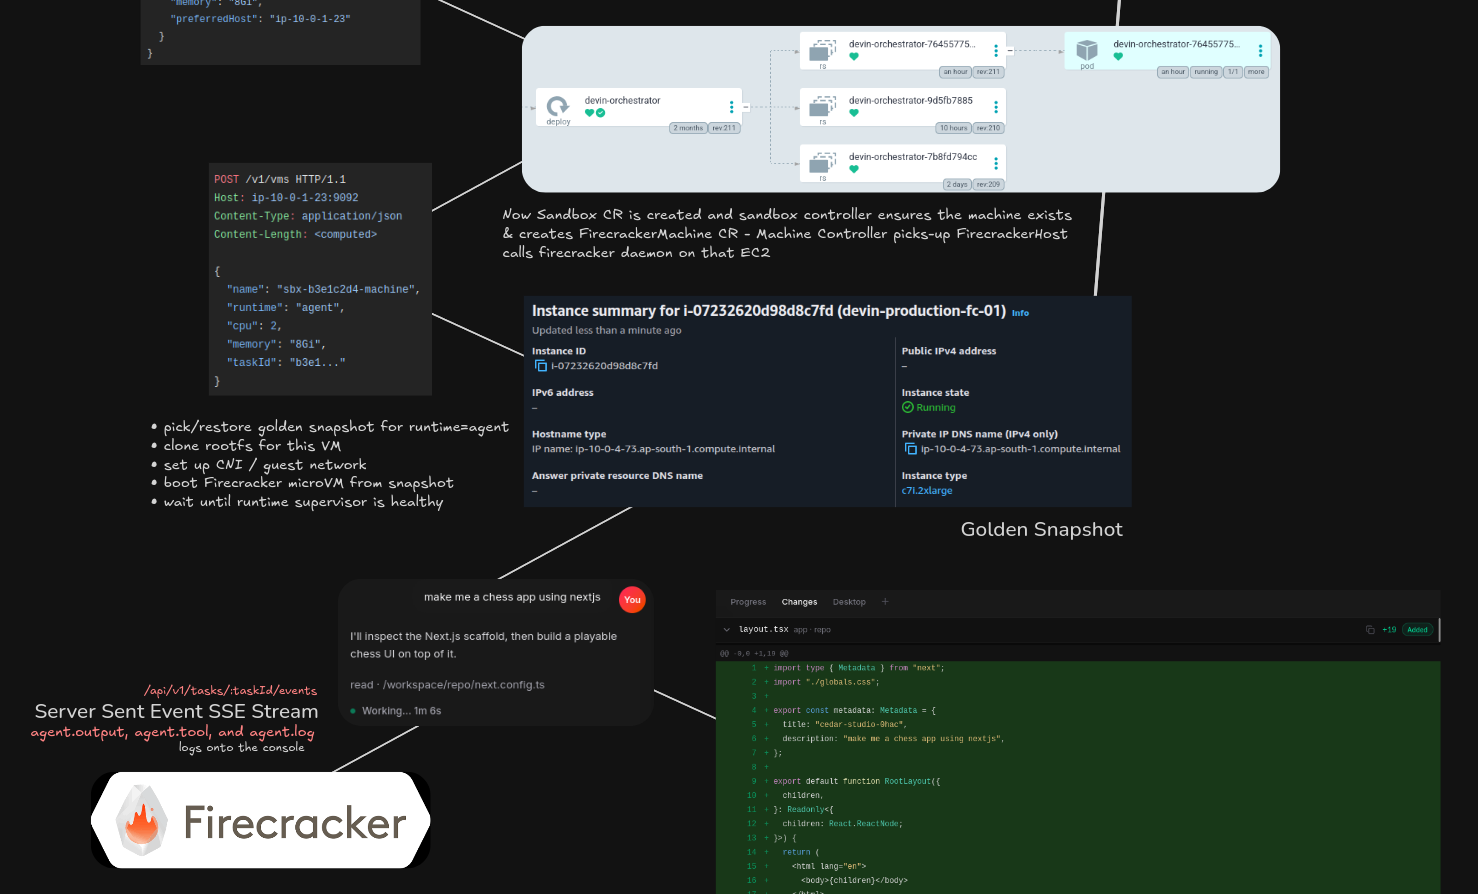
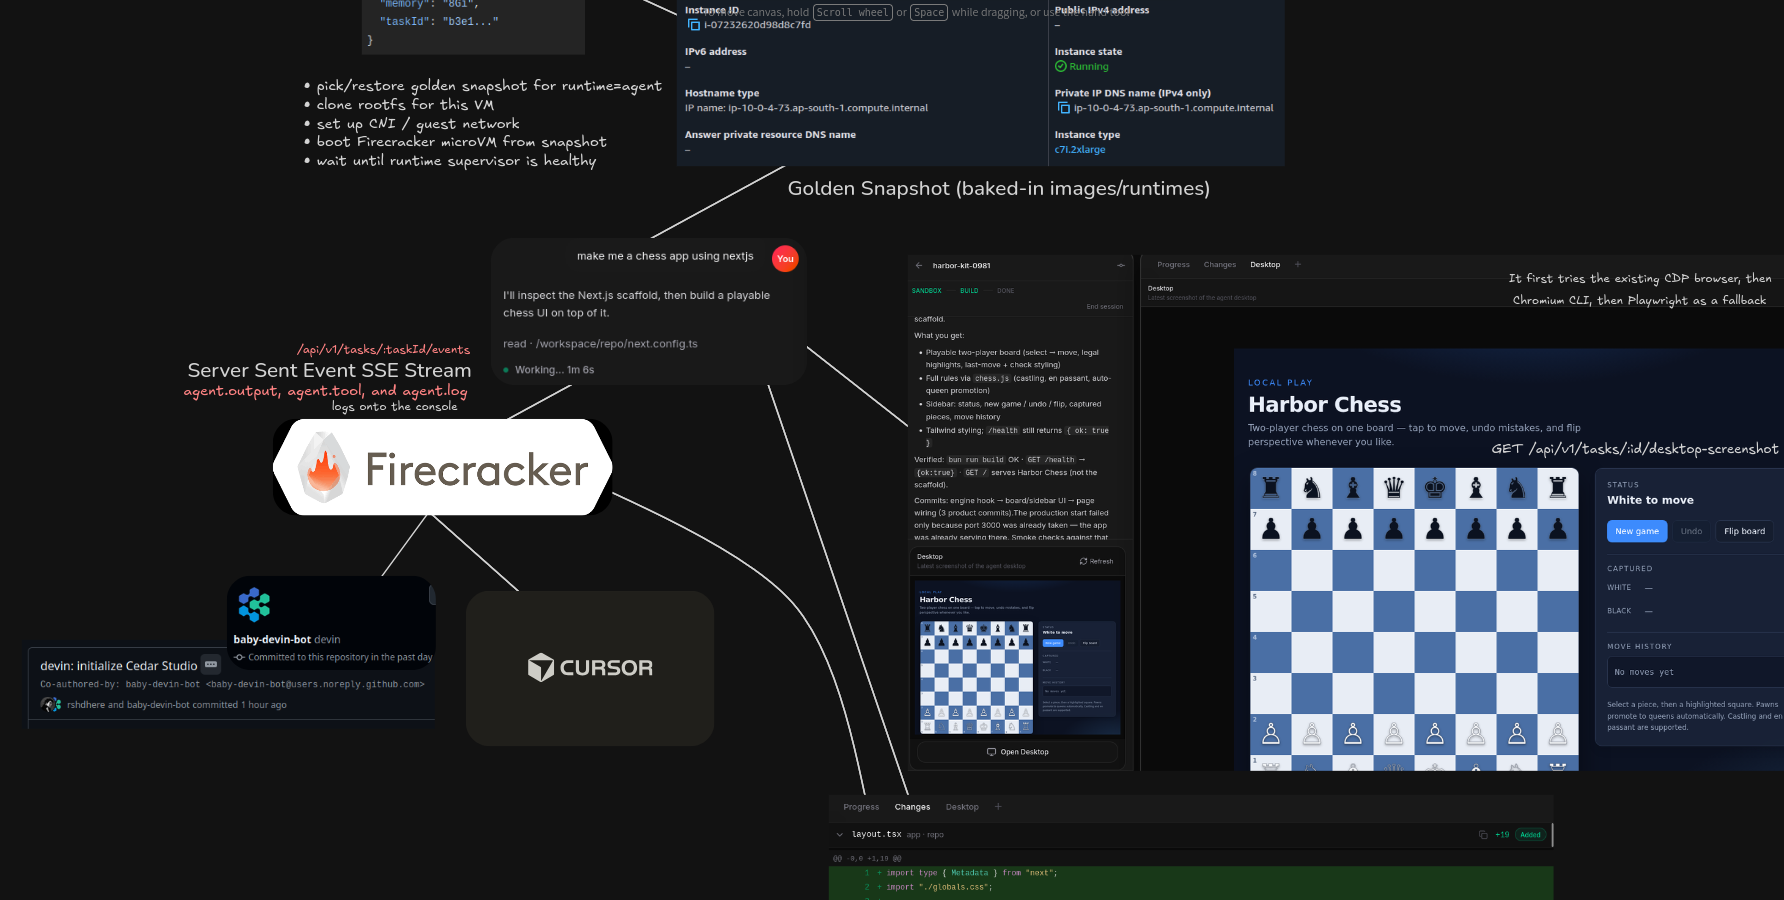
fix(desktop): serve interactive VNC assets with correct MIME
- Rewrite noVNC HTML at the proxy edge to absolute asset and ws paths
- Add compat /tasks/:id/assets/* route for older relative imports
- Force javascript Content-Type for rfb.js through API and scheduler
- Update README architecture diagram

diff --git a/packages/api/v1/src/handlers/tasks.ts b/packages/api/v1/src/handlers/tasks.ts
@@ -28,6 +28,7 @@ import {
   readTaskFile,
 } from "../lib/scheduler.js";
 import { applyCorsHeaders } from "../lib/cors.js";
+import { rewriteDesktopVncPageHtml } from "../lib/desktop-vnc-html.js";
 import { requireAuth } from "../middleware/require-auth.js";
 
 export const tasksRouter = Router();
@@ -349,9 +350,19 @@ tasksRouter.get("/:id/desktop-vnc", async (req, res) => {
     const response = await fetchDesktopVNC(req.params.id);
     res.status(response.status);
     response.headers.forEach((value, key) => {
+      const lower = key.toLowerCase();
+      if (lower === "content-length" || lower === "content-encoding") {
+        return;
+      }
       res.setHeader(key, value);
     });
-    res.send(Buffer.from(await response.arrayBuffer()));
+    res.setHeader("Content-Type", "text/html; charset=utf-8");
+    res.setHeader("Cache-Control", "no-store");
+    let body = Buffer.from(await response.arrayBuffer()).toString("utf8");
+    if (response.ok) {
+      body = rewriteDesktopVncPageHtml(body, req.params.id);
+    }
+    res.send(body);
   } catch (error) {
     respondSchedulerFailure(req, res, error);
   }
@@ -364,7 +375,40 @@ tasksRouter.get("/:id/desktop-vnc/assets/*assetPath", async (req, res) => {
       : req.params.assetPath;
     const response = await fetchDesktopVNCAsset(req.params.id, assetPath);
     res.status(response.status);
-    response.headers.forEach((value, key) => res.setHeader(key, value));
+    response.headers.forEach((value, key) => {
+      const lower = key.toLowerCase();
+      if (lower === "content-length" || lower === "content-encoding") {
+        return;
+      }
+      res.setHeader(key, value);
+    });
+    if (/\.(m?js)$/i.test(assetPath)) {
+      res.setHeader("Content-Type", "text/javascript; charset=utf-8");
+    }
+    res.send(Buffer.from(await response.arrayBuffer()));
+  } catch (error) {
+    respondSchedulerFailure(req, res, error);
+  }
+});
+
+// Compat: older noVNC HTML resolves assets relative to .../tasks/:id/assets/...
+tasksRouter.get("/:id/assets/*assetPath", async (req, res) => {
+  try {
+    const assetPath = Array.isArray(req.params.assetPath)
+      ? req.params.assetPath.join("/")
+      : req.params.assetPath;
+    const response = await fetchDesktopVNCAsset(req.params.id, assetPath);
+    res.status(response.status);
+    response.headers.forEach((value, key) => {
+      const lower = key.toLowerCase();
+      if (lower === "content-length" || lower === "content-encoding") {
+        return;
+      }
+      res.setHeader(key, value);
+    });
+    if (/\.(m?js)$/i.test(assetPath)) {
+      res.setHeader("Content-Type", "text/javascript; charset=utf-8");
+    }
     res.send(Buffer.from(await response.arrayBuffer()));
   } catch (error) {
     respondSchedulerFailure(req, res, error);

diff --git a/packages/scheduler/src/task/service/desktop-vnc-html.ts b/packages/scheduler/src/task/service/desktop-vnc-html.ts
@@ -1,0 +1,51 @@
+/**
+ * noVNC HTML is generated inside the guest runtime. Older snapshots still emit
+ * relative imports that resolve `.../desktop-vnc` → `.../assets/core/rfb.js`
+ * (dropping `desktop-vnc`), which the API serves as HTML and the browser
+ * blocks as a bad MIME type. Rewrite the page at the proxy edge so Interactive
+ * Desktop works even before guest images are rebuilt.
+ */
+export function rewriteDesktopVncHtml(html: string, taskId: string): string {
+  const desktopPath = `/api/v1/tasks/${encodeURIComponent(taskId)}/desktop-vnc`;
+  const assetModule = `${desktopPath}/assets/core/rfb.js`;
+  const wsPath = `${desktopPath}/ws`;
+
+  const script = `<script type="module">
+const proto = location.protocol === 'https:' ? 'wss:' : 'ws:';
+const url = proto + '//' + location.host + ${JSON.stringify(wsPath)};
+import(${JSON.stringify(assetModule)}).then(({ default: RFB }) => {
+  const rfb = new RFB(document.getElementById('screen'), url, { scaleViewport: true, resizeSession: false });
+  rfb.viewOnly = false;
+  rfb.focusOnClick = true;
+  rfb.clipViewport = false;
+  rfb.scaleViewport = true;
+}).catch((err) => {
+  document.body.innerHTML = '<pre style="color:#f88;padding:16px;font:12px monospace">Failed to load noVNC: ' + String(err) + '</pre>';
+});
+</script>`;
+
+  if (/<script type="module">[\s\S]*?<\/script>/i.test(html)) {
+    return html.replace(/<script type="module">[\s\S]*?<\/script>/i, script);
+  }
+  if (/<\/body>/i.test(html)) {
+    return html.replace(/<\/body>/i, `${script}</body>`);
+  }
+  return `${html}\n${script}`;
+}
+
+export function contentTypeForVncAsset(assetPath: string): string | undefined {
+  const lower = assetPath.toLowerCase();
+  if (lower.endsWith(".js") || lower.endsWith(".mjs")) {
+    return "text/javascript; charset=utf-8";
+  }
+  if (lower.endsWith(".css")) {
+    return "text/css; charset=utf-8";
+  }
+  if (lower.endsWith(".svg")) {
+    return "image/svg+xml";
+  }
+  if (lower.endsWith(".map")) {
+    return "application/json";
+  }
+  return undefined;
+}

diff --git a/packages/scheduler/src/task/service/desktop-computer.ts b/packages/scheduler/src/task/service/desktop-computer.ts
@@ -7,6 +7,10 @@ import {
   requestWorkerRehydrate,
 } from "./resolve-session-proxy.js";
 import { wakeSession } from "./session-lifecycle.js";
+import {
+  contentTypeForVncAsset,
+  rewriteDesktopVncHtml,
+} from "./desktop-vnc-html.js";
 
 function bridgeWebSockets(client: WebSocket, upstream: WebSocket): void {
   client.on("message", (data, isBinary) => {
@@ -175,10 +179,41 @@ export async function proxyDesktopVNCPageHttp(
   const upstream = await proxyDesktopVNCPage(svc, taskId);
   res.statusCode = upstream.status;
   upstream.headers.forEach((value, key) => {
+    const lower = key.toLowerCase();
+    if (lower === "content-length" || lower === "content-encoding") {
+      return;
+    }
     res.setHeader(key, value);
   });
-  const body = Buffer.from(await upstream.arrayBuffer());
+  res.setHeader("Content-Type", "text/html; charset=utf-8");
+  res.setHeader("Cache-Control", "no-store");
+  let body = Buffer.from(await upstream.arrayBuffer()).toString("utf8");
+  if (upstream.ok) {
+    body = rewriteDesktopVncHtml(body, taskId);
+  }
   res.end(body);
+}
+
+export async function proxyDesktopVNCAssetHttp(
+  svc: TaskService,
+  taskId: string,
+  assetPath: string,
+  res: ServerResponse,
+): Promise<void> {
+  const upstream = await proxyDesktopVNCAsset(svc, taskId, assetPath);
+  res.statusCode = upstream.status;
+  upstream.headers.forEach((value, key) => {
+    const lower = key.toLowerCase();
+    if (lower === "content-length" || lower === "content-encoding") {
+      return;
+    }
+    res.setHeader(key, value);
+  });
+  const forcedType = contentTypeForVncAsset(assetPath);
+  if (forcedType) {
+    res.setHeader("Content-Type", forcedType);
+  }
+  res.end(Buffer.from(await upstream.arrayBuffer()));
 }
 
 export function attachDesktopVNCWebSocketUpgrade(

diff --git a/packages/api/v1/src/lib/desktop-vnc-html.ts b/packages/api/v1/src/lib/desktop-vnc-html.ts
@@ -1,0 +1,31 @@
+/** Keep Interactive Desktop working when guest HTML still uses relative imports. */
+export function rewriteDesktopVncPageHtml(
+  html: string,
+  taskId: string,
+): string {
+  const desktopPath = `/api/v1/tasks/${encodeURIComponent(taskId)}/desktop-vnc`;
+  const assetModule = `${desktopPath}/assets/core/rfb.js`;
+  const wsPath = `${desktopPath}/ws`;
+
+  const script = `<script type="module">
+const proto = location.protocol === 'https:' ? 'wss:' : 'ws:';
+const url = proto + '//' + location.host + ${JSON.stringify(wsPath)};
+import(${JSON.stringify(assetModule)}).then(({ default: RFB }) => {
+  const rfb = new RFB(document.getElementById('screen'), url, { scaleViewport: true, resizeSession: false });
+  rfb.viewOnly = false;
+  rfb.focusOnClick = true;
+  rfb.clipViewport = false;
+  rfb.scaleViewport = true;
+}).catch((err) => {
+  document.body.innerHTML = '<pre style="color:#f88;padding:16px;font:12px monospace">Failed to load noVNC: ' + String(err) + '</pre>';
+});
+</script>`;
+
+  if (/<script type="module">[\s\S]*?<\/script>/i.test(html)) {
+    return html.replace(/<script type="module">[\s\S]*?<\/script>/i, script);
+  }
+  if (/<\/body>/i.test(html)) {
+    return html.replace(/<\/body>/i, `${script}</body>`);
+  }
+  return `${html}\n${script}`;
+}

diff --git a/packages/scheduler/src/task/service/desktop-vnc-html.test.ts b/packages/scheduler/src/task/service/desktop-vnc-html.test.ts
@@ -1,0 +1,29 @@
+import { describe, expect, it } from "bun:test";
+import {
+  contentTypeForVncAsset,
+  rewriteDesktopVncHtml,
+} from "./desktop-vnc-html.js";
+
+describe("rewriteDesktopVncHtml", () => {
+  it("rewrites module imports to absolute desktop-vnc asset paths", () => {
+    const broken = `<!DOCTYPE html><html><body><div id="screen"></div>
+<script type="module">
+const pageBase = location.href.endsWith('/') ? location.href : location.href + '/';
+import(new URL('assets/core/rfb.js', pageBase).href).then(({ default: RFB }) => {});
+</script></body></html>`;
+
+    const rewritten = rewriteDesktopVncHtml(broken, "task-123");
+    expect(rewritten).toContain(
+      "/api/v1/tasks/task-123/desktop-vnc/assets/core/rfb.js",
+    );
+    expect(rewritten).toContain("/api/v1/tasks/task-123/desktop-vnc/ws");
+    expect(rewritten).not.toContain("new URL('assets/core/rfb.js'");
+  });
+});
+
+describe("contentTypeForVncAsset", () => {
+  it("forces javascript MIME for rfb modules", () => {
+    expect(contentTypeForVncAsset("core/rfb.js")).toContain("javascript");
+    expect(contentTypeForVncAsset("app/styles.css")).toContain("css");
+  });
+});

diff --git a/packages/scheduler/src/server/task-routes.ts b/packages/scheduler/src/server/task-routes.ts
@@ -293,13 +293,19 @@ export function createTaskRouter(tasks: TaskService): Router {
       const assetPath = Array.isArray(req.params.assetPath)
         ? req.params.assetPath.join("/")
         : req.params.assetPath;
-      const upstream = await tasks.proxyDesktopVNCAsset(
-        req.params.id,
-        assetPath,
-      );
-      res.status(upstream.status);
-      upstream.headers.forEach((value, key) => res.setHeader(key, value));
-      res.send(Buffer.from(await upstream.arrayBuffer()));
+      await tasks.proxyDesktopVNCAssetHttp(req.params.id, assetPath, res);
+    } catch (error) {
+      sendError(res, 502, error, "desktop vnc asset failed");
+    }
+  });
+
+  // Compat for older noVNC pages that resolve assets as .../tasks/:id/assets/...
+  router.get("/:id/assets/*assetPath", async (req, res) => {
+    try {
+      const assetPath = Array.isArray(req.params.assetPath)
+        ? req.params.assetPath.join("/")
+        : req.params.assetPath;
+      await tasks.proxyDesktopVNCAssetHttp(req.params.id, assetPath, res);
     } catch (error) {
       sendError(res, 502, error, "desktop vnc asset failed");
     }

diff --git a/packages/scheduler/src/task/service/task-service.ts b/packages/scheduler/src/task/service/task-service.ts
@@ -23,6 +23,7 @@ import {
 import {
   ensureDesktopComputer as ensureDesktopComputerImpl,
   proxyDesktopVNCAsset as proxyDesktopVNCAssetImpl,
+  proxyDesktopVNCAssetHttp as proxyDesktopVNCAssetHttpImpl,
   proxyDesktopVNCPageHttp as proxyDesktopVNCPageHttpImpl,
 } from "./desktop-computer.js";
 import { processJob as processJobImpl } from "./process-job/index.js";
@@ -594,6 +595,14 @@ export class TaskService implements TaskServiceHost {
     assetPath: string,
   ): Promise<Response> {
     return proxyDesktopVNCAssetImpl(this, taskId, assetPath);
+  }
+
+  async proxyDesktopVNCAssetHttp(
+    taskId: string,
+    assetPath: string,
+    res: import("node:http").ServerResponse,
+  ): Promise<void> {
+    return proxyDesktopVNCAssetHttpImpl(this, taskId, assetPath, res);
   }
 
   async persistSession(

diff --git a/apps/runtime/internal/supervisor/desktop_computer.go b/apps/runtime/internal/supervisor/desktop_computer.go
@@ -270,6 +270,10 @@ func (s *Server) ensureDesktopComputer(ctx context.Context) error {
 }
 
 func (s *Server) handleDesktopVNCPage(w http.ResponseWriter, r *http.Request) {
+	// Resolve assets from the pathname explicitly. Using `new URL(rel, href)`
+	// without a trailing slash replaces the final path segment and breaks the
+	// API proxy (`.../desktop-vnc` → `.../assets/...` instead of
+	// `.../desktop-vnc/assets/...`), which returns HTML and blocks the module.
 	page := `<!DOCTYPE html>
 <html><head>
 <meta charset="utf-8">
@@ -278,18 +282,18 @@ func (s *Server) handleDesktopVNCPage(w http.ResponseWriter, r *http.Request) {
 </head><body>
 <div id="screen"></div>
 <script type="module">
-// Load noVNC from this runtime. Keeping the module graph same-origin avoids
-// CDN CORS/MIME failures and works in isolated or offline sandboxes.
+const path = location.pathname.replace(/\/+$/, '');
+const desktopPath = path.endsWith('/desktop-vnc') ? path : path + '/desktop-vnc';
 const proto = location.protocol === 'https:' ? 'wss:' : 'ws:';
-const wsPath = location.pathname.replace(/\/?$/, '/ws');
-const url = proto + '//' + location.host + wsPath;
-const pageBase = location.href.endsWith('/') ? location.href : location.href + '/';
-import(new URL('assets/core/rfb.js', pageBase).href).then(({ default: RFB }) => {
+const url = proto + '//' + location.host + desktopPath + '/ws';
+import(desktopPath + '/assets/core/rfb.js').then(({ default: RFB }) => {
   const rfb = new RFB(document.getElementById('screen'), url, { scaleViewport: true, resizeSession: false });
   rfb.viewOnly = false;
   rfb.focusOnClick = true;
   rfb.clipViewport = false;
   rfb.scaleViewport = true;
+}).catch((err) => {
+  document.body.innerHTML = '<pre style="color:#f88;padding:16px;font:12px monospace">Failed to load noVNC: ' + String(err) + '</pre>';
 });
 </script>
 </body></html>`
@@ -321,6 +325,16 @@ func (s *Server) handleDesktopVNCAsset(w http.ResponseWriter, r *http.Request) {
 	}
 
 	w.Header().Set("Cache-Control", "public, max-age=3600")
+	switch strings.ToLower(filepath.Ext(assetPath)) {
+	case ".js", ".mjs":
+		w.Header().Set("Content-Type", "text/javascript; charset=utf-8")
+	case ".css":
+		w.Header().Set("Content-Type", "text/css; charset=utf-8")
+	case ".svg":
+		w.Header().Set("Content-Type", "image/svg+xml")
+	case ".map":
+		w.Header().Set("Content-Type", "application/json")
+	}
 	http.ServeFile(w, r, assetPath)
 }
 

diff --git a/README.md b/README.md
@@ -10,8 +10,6 @@
 ## Approach
 
 kubernetes is the **control plane**.
-
-
 firecracker microVMs are the **execution plane**.
 
-![Devin architecture: orchestrator, Firecracker hosts, microVMs, and SSE event stream](docs/architecture.png)
+![Devin architecture: Firecracker microVMs, Cursor agent loop, SSE events, and desktop preview](docs/architecture.png)
